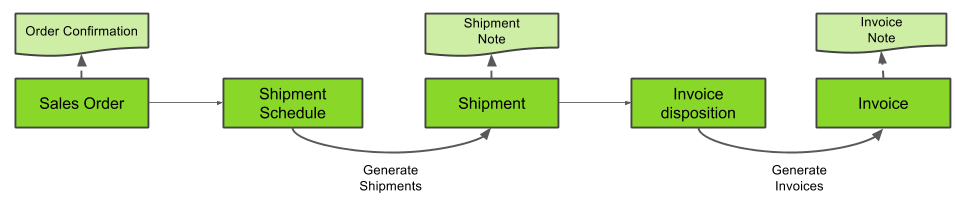
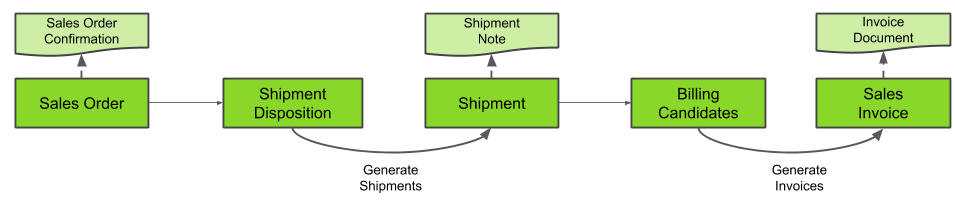
Updated docs (for coherence with WebUI)
- changed "Invoice Disposition" to "Billing Candidates"

(this is about issue #377 and in connection to issue
https://github.com/metasfresh/metasfresh/issues/5377 )

diff --git a/_webui_collection/EN/FunctionalModules.md b/_webui_collection/EN/FunctionalModules.md
@@ -20,7 +20,7 @@ metasfresh is a full-featured ERP software that comes with the following modules
 | Manufacturing | MRP II, [Manufacturing Order](NewManufacturingOrder), Manufacturing Completion, [Bill of Material](Create_BOM) |
 | [Warehousing](Add_new_warehouse) | Shipment Planning, [Shipment](Ship_SalesOrder), Material Receipt Management, Material Receipt, Inventory |
 | Supply Chain Management (SCM) | Attributes, Traceability |
-| Billing | Invoice Disposition, [Customer](Invoice_SalesOrder)/[Vendor Invoice](CreatePurchaseInvoice), Credit Memo, Aggregation, Invoice Cancellation |
+| Billing | Billing Candidates, [Customer](Invoice_SalesOrder)/[Vendor Invoice](CreatePurchaseInvoice), Credit Memo, Aggregation, Invoice Cancellation |
 | Logistics | [Handling Unit Management](Handling_Unit_System), Empties, Distribution Management, Tour Support |
 | Payments | [Incoming](Single_incoming_payment)/Outgoing Payment, SEPA, ESR |
 | [Dunning](Dunning_Run) | [Dunning Levels](Define_Dunning_Type), Management of Dunning Documents |

diff --git a/_webui_collection/EN/Bill-to_info_subsequent_change.md b/_webui_collection/EN/Bill-to_info_subsequent_change.md
@@ -21,7 +21,7 @@ In metasfresh, you can easily change the name and/or address of the invoice reci
 ### a) Before invoicing
 1. Open "Sales Order" from the [menu](Menu).
 1. Open the entry of a [completed sales order](SalesOrder_recording) for which you want to change the bill-to information.
-1. [Jump to](JumptoviaSidebar) "Invoice Disposition" and open the entry of the corresponding billing candidate.
+1. [Jump to](JumptoviaSidebar) "Billing Candidates" and open the entry of the corresponding billing candidate.
 1. Open the [advanced edit menu](ViewModes) from the [actions menu](StartAction).
  >**Note:** Use shortcut `Alt` + `E` / `⌥ alt` + `E`.
 

diff --git a/_webui_collection/EN/CreatePurchaseInvoice.md b/_webui_collection/EN/CreatePurchaseInvoice.md
@@ -11,7 +11,7 @@ ref: createpurchaseinvoice
 
 ## Steps
 1. Open the entry of a [purchase order for which you have received goods](CreateGoodsReceipt).
-1. [Jump to](JumptoviaSidebar) "Invoice Disposition".
+1. [Jump to](JumptoviaSidebar) "Billing Candidates".
 1. [Select the order lines](RecordSelection) you want to invoice.
 1. [Start the action](StartAction) "Generate Invoices". An overlay window opens up.
 1. Click "Start" to confirm and close the overlay window.

diff --git a/_webui_collection/EN/Invoice_SalesOrder.md b/_webui_collection/EN/Invoice_SalesOrder.md
@@ -11,7 +11,7 @@ ref: invoice_salesorder
 
 ## Steps
 1. Open the entry of a [sales order which has been shipped](Ship_SalesOrder).
-1. [Jump to](JumptoviaSidebar) "Invoice Disposition".
+1. [Jump to](JumptoviaSidebar) "Billing Candidates".
 1. [Select the order lines](RecordSelection) you want to invoice.
 1. [Start the action](StartAction) "Generate Invoices". An overlay window opens up.
 1. Click "Start" to confirm and close the overlay window.
